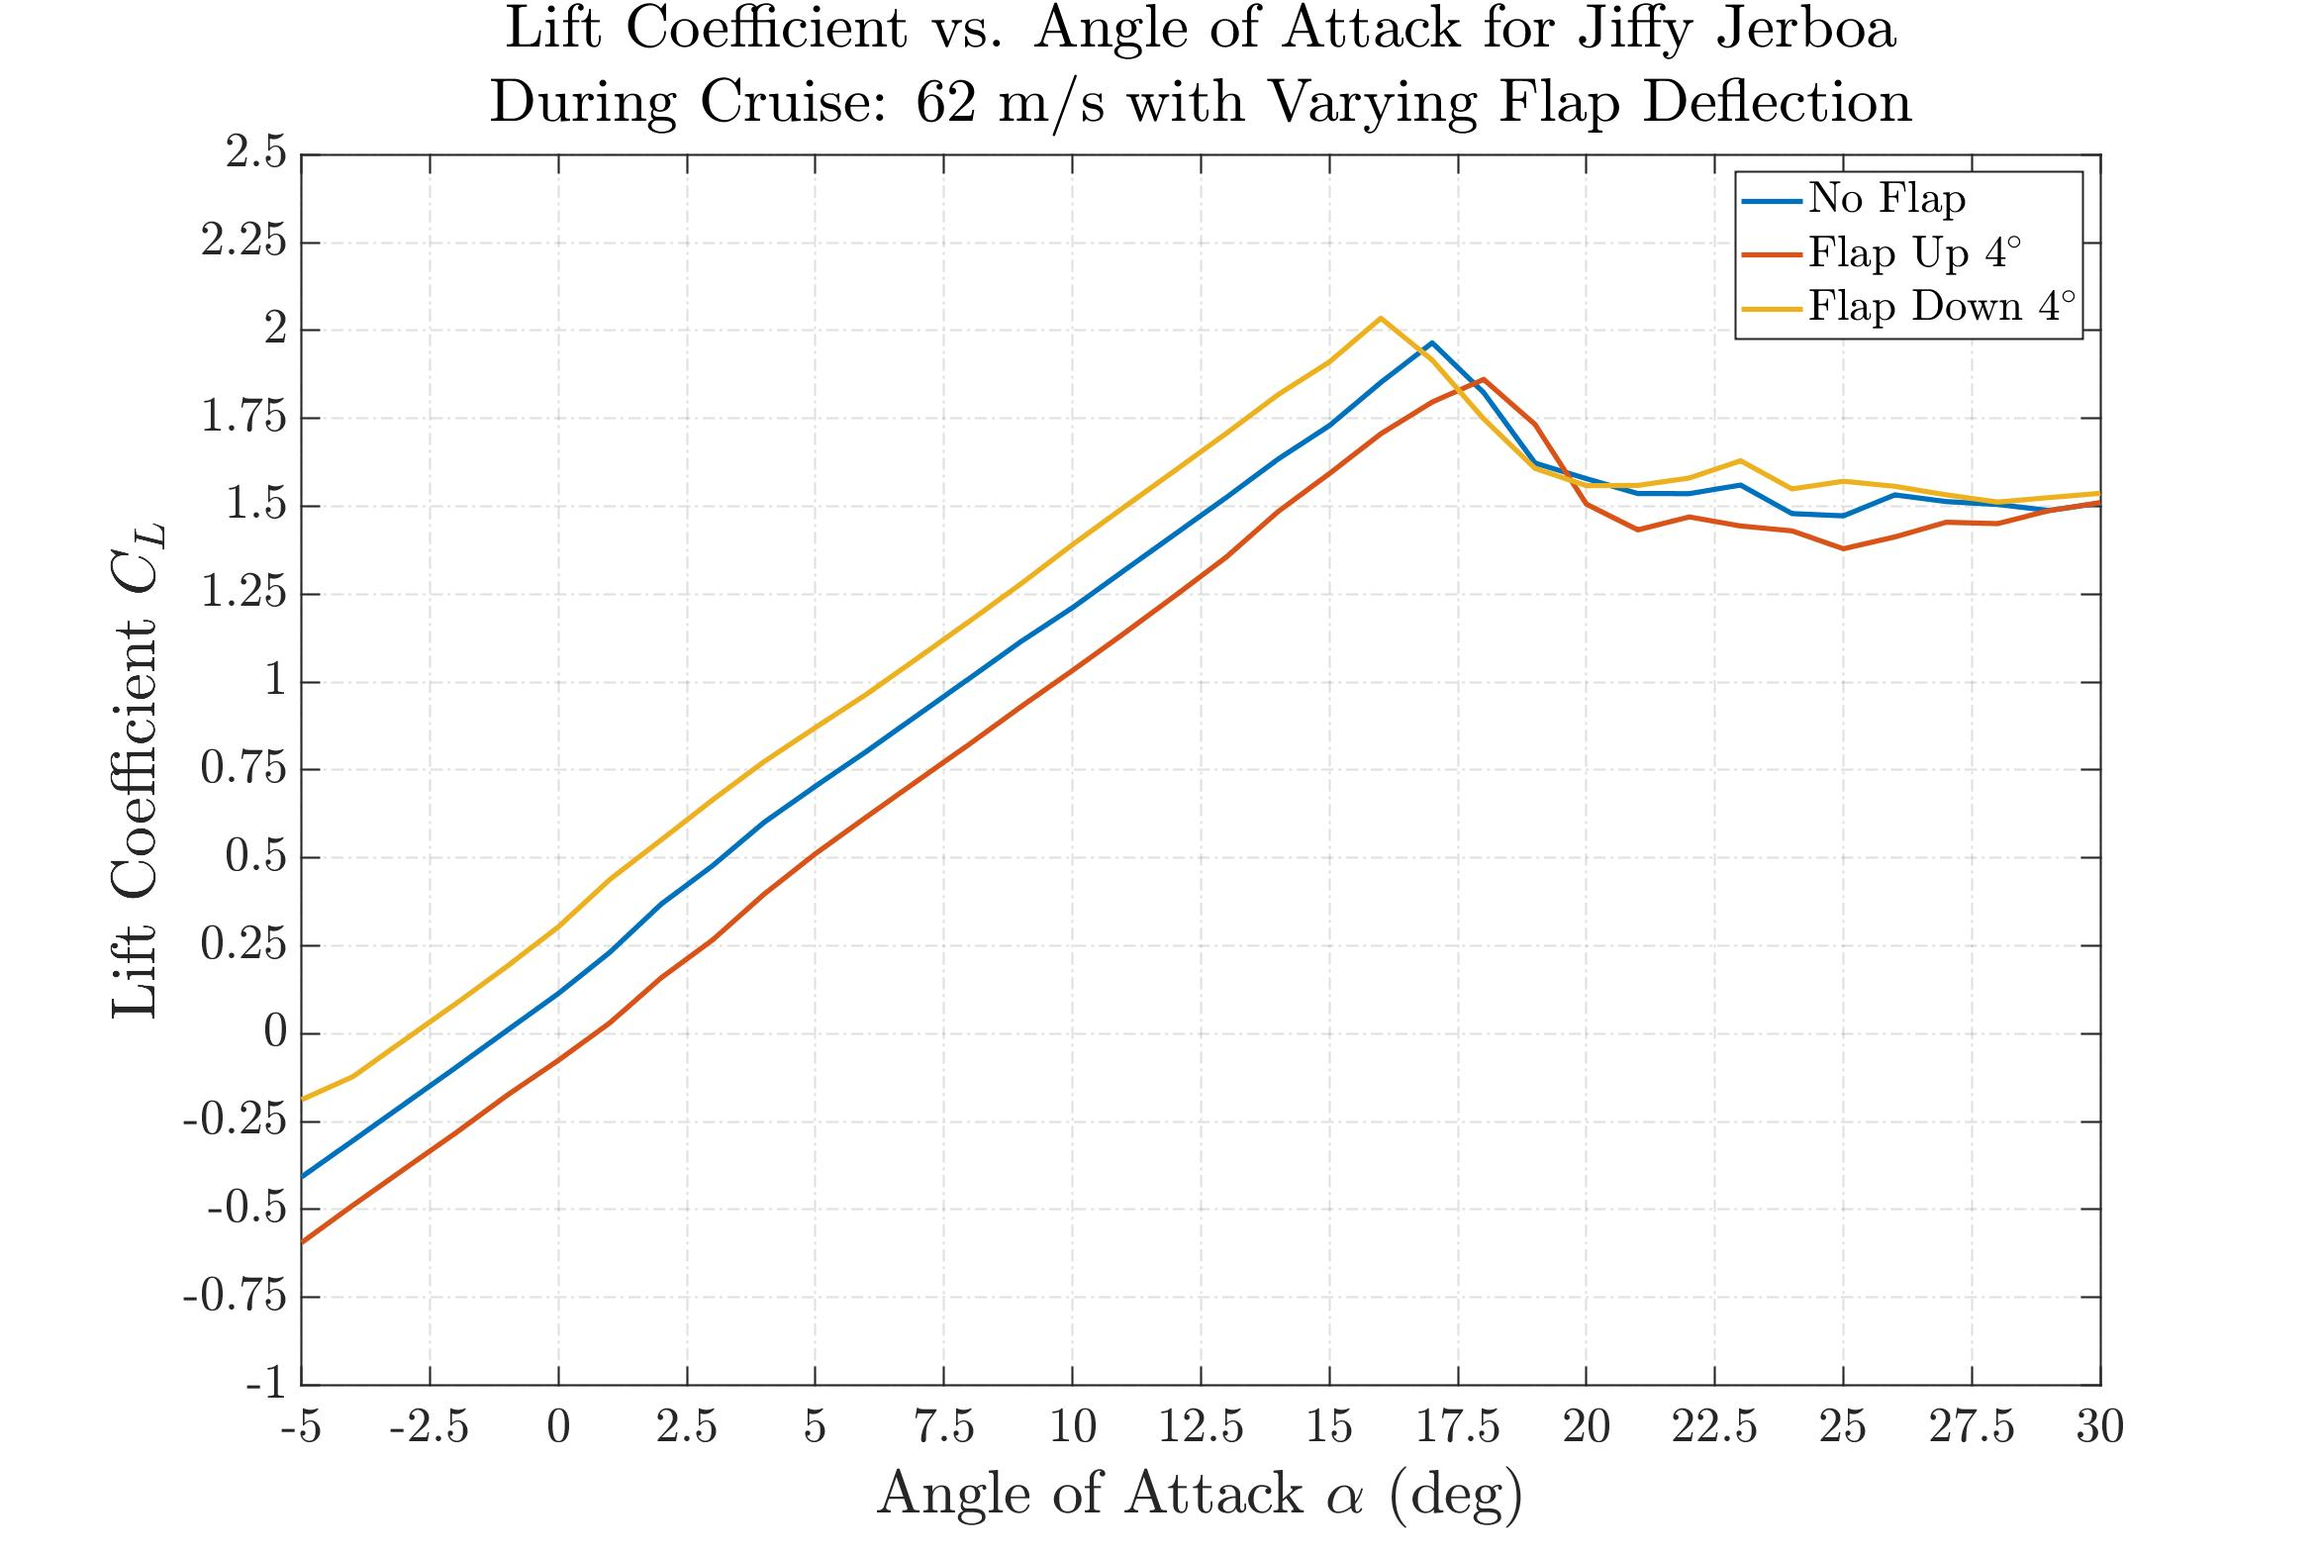
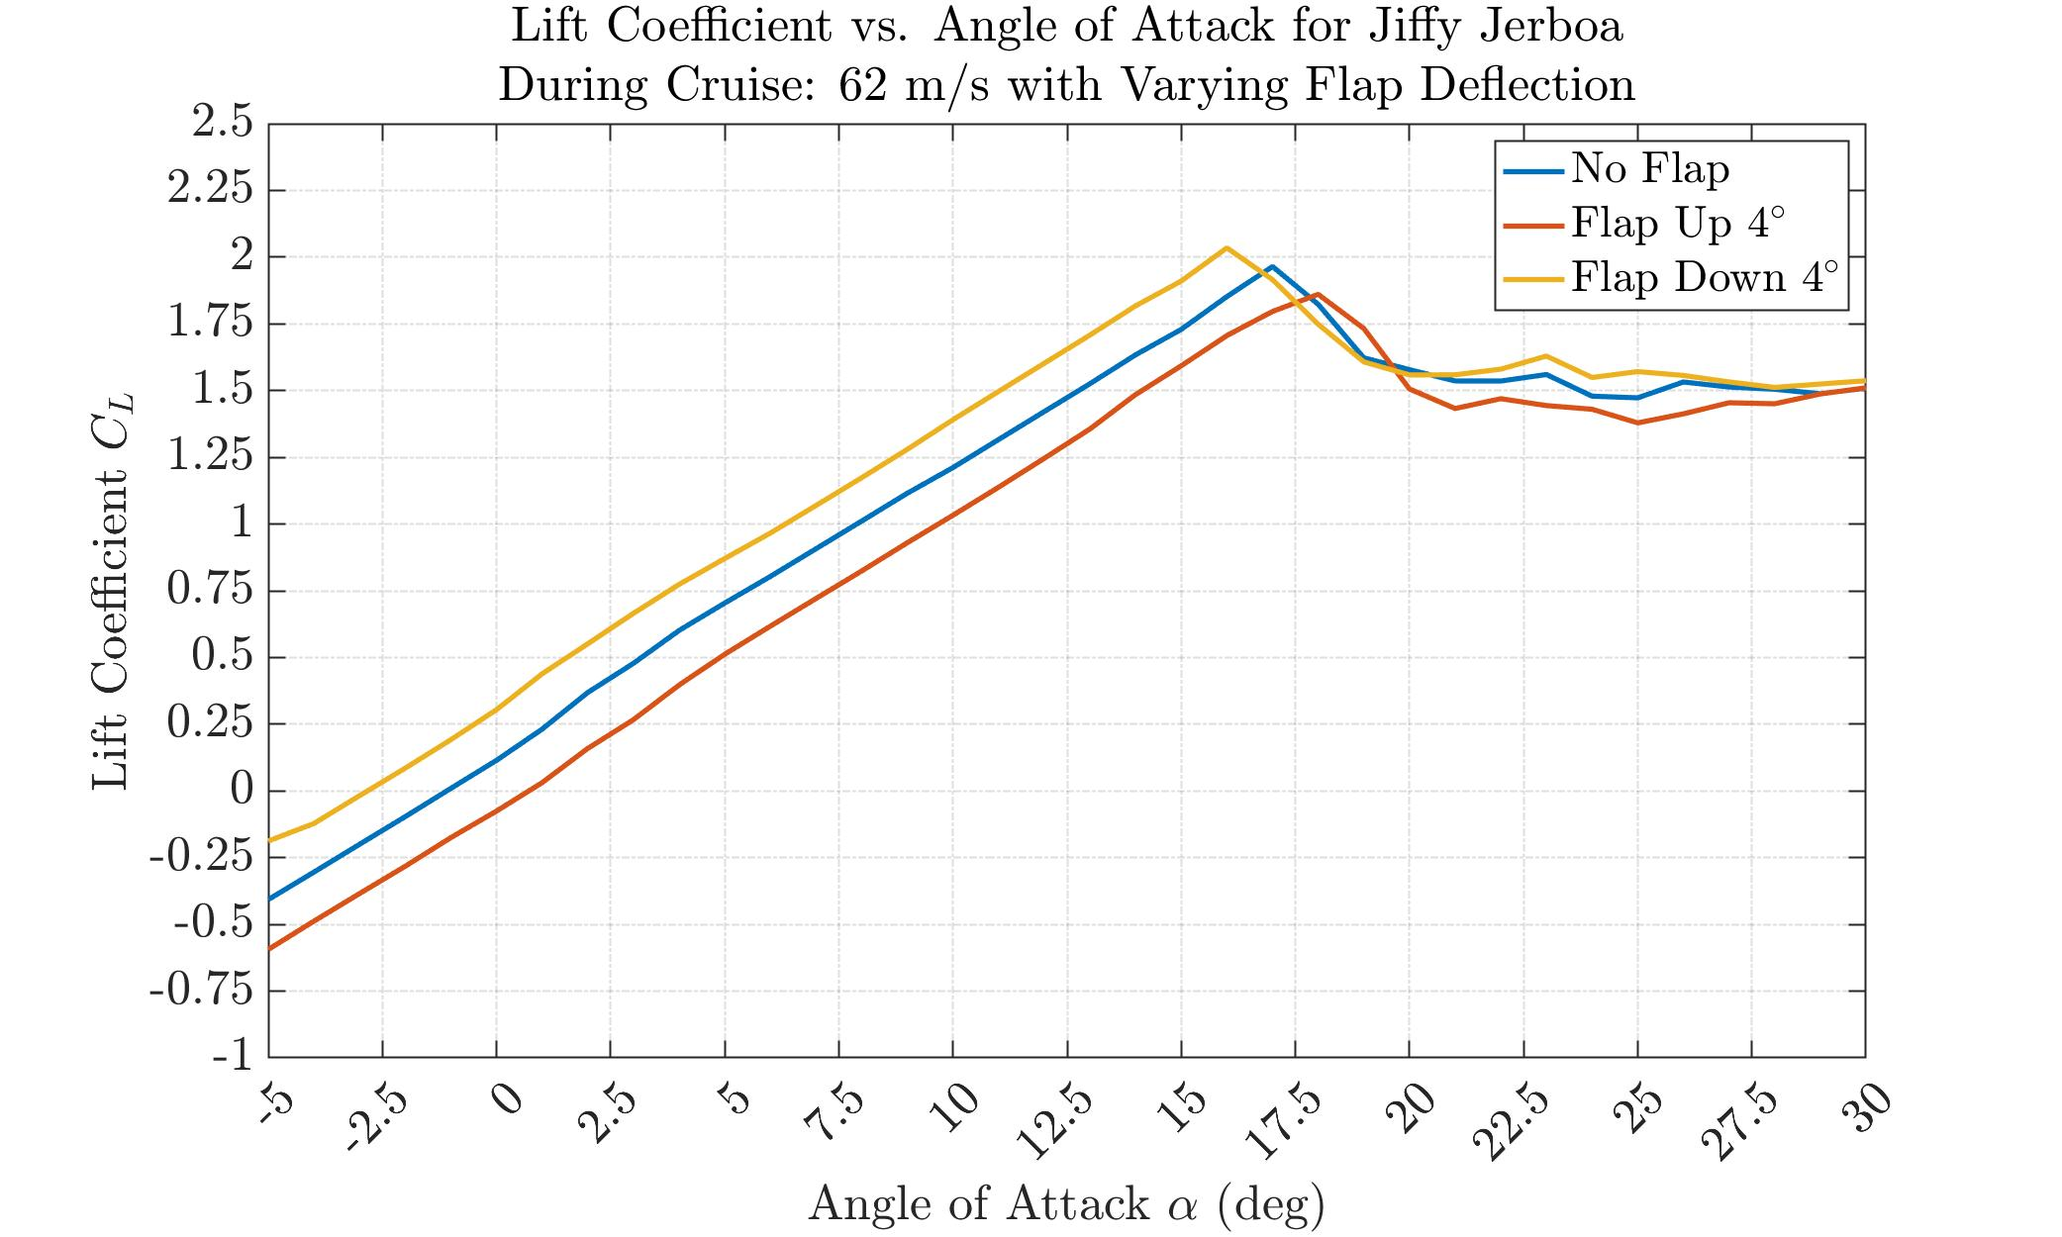
moved things around slightly
TVG 03.17.2021

diff --git a/MATLAB_Codes/FlightStream_Plotting/03_16_2021 - XT Copy/plotting_03_16_2021_XT.m b/MATLAB_Codes/FlightStream_Plotting/03_16_2021 - XT Copy/plotting_03_16_2021_XT.m
@@ -110,7 +110,7 @@ CD_landl = CDi_landl + CDo_landl;
 CD_landz = CDi_landz + CDo_landz;
 
 %% Plotting variables
-sizeFont = 30;      % font size
+sizeFont = 24;      % font size
 sizeFig = [10, 10, 1500, 1200];     % size of figure
 alf_ticks_long = -5:2.5:30;
 alf_ticks_zoomed = -5:1:10;
@@ -122,7 +122,7 @@ CD_ticks_zoomed = 0:0.01:0.15;
 %% Plot Long CL vs. Alpha
 % Cruise
 figure
-figure('Renderer', 'painters', 'Position', sizeFig)
+% figure('Renderer', 'painters', 'Position', sizeFig)
 plot(alp_nf_62l, CL_nf_62l, 'DisplayName', "No Flap")
 hold on 
 plot(alp_fu_62l, CL_fu_62l, 'DisplayName', "Flap Up 4$^{\circ}$")
@@ -138,7 +138,7 @@ saveas(gcf,"./Figures/CLva_all.jpg")
 
 % Landing
 figure
-figure('Renderer', 'painters', 'Position', sizeFig)
+% figure('Renderer', 'painters', 'Position', sizeFig)
 plot(alp_landl, CL_landl, 'DisplayName', "Flap Down 4$^{\circ}$")
 legend
 xlabel("Angle of Attack $\alpha$ (deg)", 'FontSize', sizeFont)
@@ -151,7 +151,7 @@ saveas(gcf,"./Figures/CLva_land.jpg")
 %% Plot long CD vs CL
 % v = 62 m/s
 figure
-figure('Renderer', 'painters', 'Position', sizeFig)
+% figure('Renderer', 'painters', 'Position', sizeFig)
 plot(CL_nf_62l, CD_nf_62l, 'DisplayName', "No Flap Deflection")
 hold on
 plot(CL_fu_62l, CD_fu_62l, 'DisplayName', "Flap Up 4$^{\circ}$")
@@ -167,7 +167,7 @@ saveas(gcf,"./Figures/CDvCL_62_long.jpg")
 
 % Landing v = 38 m/s
 figure
-figure('Renderer', 'painters', 'Position', sizeFig)
+% figure('Renderer', 'painters', 'Position', sizeFig)
 plot(CL_landl, CD_landl, 'DisplayName', "No Flap Deflection")
 legend
 xlabel("Lift Coefficient $C_L$", 'FontSize', sizeFont)
@@ -180,7 +180,7 @@ saveas(gcf,"./Figures/CDvCL_land_long.jpg")
 %% Plot Zoomed CD vs CL
 % v = 62 m/s
 figure
-figure('Renderer', 'painters', 'Position', sizeFig)
+% figure('Renderer', 'painters', 'Position', sizeFig)
 plot(CL_nf_62z, CD_nf_62z, 'DisplayName', "No Flap Deflection")
 hold on
 plot(CL_fu_62z, CD_fu_62z, 'DisplayName', "Flap Up 4$^{\circ}$")
@@ -196,7 +196,7 @@ saveas(gcf,"./Figures/CDvCL_62_zoomed.jpg")
 
 % v = 44 m/s
 figure
-figure('Renderer', 'painters', 'Position', sizeFig)
+% figure('Renderer', 'painters', 'Position', sizeFig)
 plot(CL_nf_44z, CD_nf_44z, 'DisplayName', "No Flap Deflection")
 hold on
 plot(CL_fu_44z, CD_fu_44z, 'DisplayName', "Flap Up 4$^{\circ}$")
@@ -212,7 +212,7 @@ saveas(gcf,"./Figures/CDvCL_44_zoomed.jpg")
 
 % Landing v = 38 m/s
 figure
-figure('Renderer', 'painters', 'Position', sizeFig)
+% figure('Renderer', 'painters', 'Position', sizeFig)
 plot(CL_landz, CD_landz, 'DisplayName', "No Flap Deflection")
 legend
 xlabel("Lift Coefficient $C_L$", 'FontSize', sizeFont)
